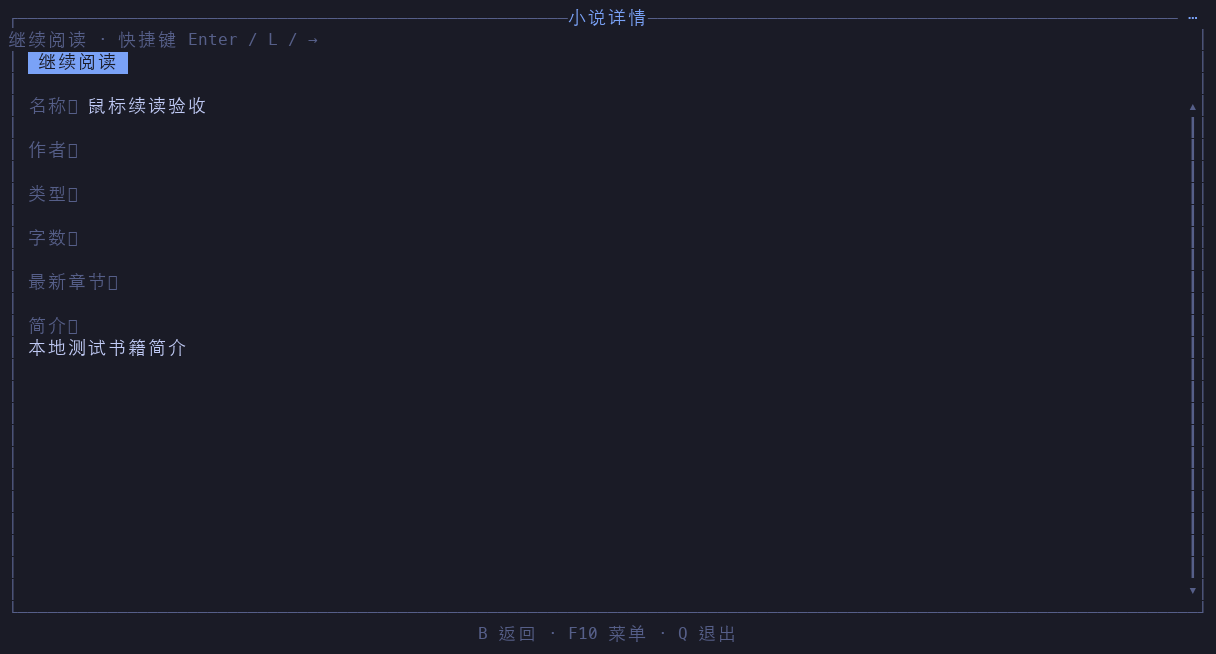
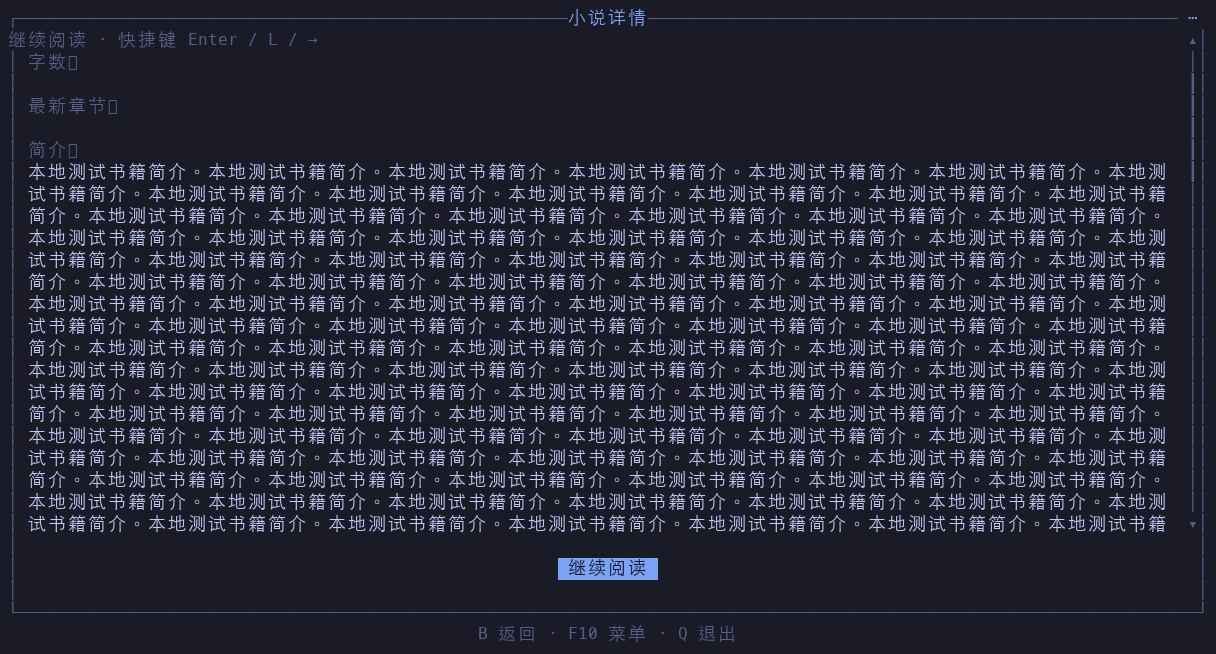
fix(ui): center the reading action at the bottom of book details

diff --git a/src/pages/network_novel/book_detail.rs b/src/pages/network_novel/book_detail.rs
@@ -1,10 +1,10 @@
 use crate::app::navigation::UseAppNavigate;
-use crate::components::{ActionBar, ActionButton};
+use crate::components::ActionButton;
 use anyhow::anyhow;
 use crossterm::event::{Event, KeyCode, KeyEventKind};
 use parse_book_source::{BookInfo, BookListItem, Engine};
 use ratatui::{
-    layout::{Constraint, Margin},
+    layout::{Constraint, Direction, Flex, Margin},
     text::{Line, Span},
     widgets::{Paragraph, Wrap},
 };
@@ -151,11 +151,6 @@ pub fn BookDetail(mut hooks: Hooks) -> impl Into<AnyElement<'static>> {
         top_title: Line::from("小说详情").centered().style(theme.title),
         border_style: theme.border,
     ){
-        View(height: Constraint::Length(3), margin: Margin::new(1,1)) {
-            ActionBar {
-                ActionButton(label: if cached { "继续阅读" } else { "开始阅读" }, shortcut: "Enter / L / →", disabled: loading.get() || book_source_parser.read().is_none(), on_press: move |_| open_book())
-            }
-        }
         {if loading.get(){
             element!(Loading(tip: "加载中...")).into_any()
         }else{
@@ -182,6 +177,14 @@ pub fn BookDetail(mut hooks: Hooks) -> impl Into<AnyElement<'static>> {
                 }
             }).into_any()
         }}
+        View(
+            height: Constraint::Length(3),
+            margin: Margin::new(1,1),
+            flex_direction: Direction::Horizontal,
+            justify_content: Flex::Center,
+        ) {
+            ActionButton(label: if cached { "继续阅读" } else { "开始阅读" }, shortcut: "Enter / L / →", disabled: loading.get() || book_source_parser.read().is_none(), on_press: move |_| open_book())
+        }
         WarningModal(
             // 用 Display(非 Debug)展示:登录态失效会清晰提示「登录态已失效,请重新登录」(9.3)。
             tip: error.read().as_ref().map(|e| e.to_string()).unwrap_or_default(),

diff --git a/tests/pty/book_detail.py b/tests/pty/book_detail.py
@@ -9,7 +9,7 @@ import sys
 import threading
 from http.server import BaseHTTPRequestHandler, ThreadingHTTPServer
 sys.dont_write_bytecode = True
-from settings_tabs import App, OUT, find, open_settings
+from settings_tabs import App, OUT, find, open_settings, resize
 
 ready = threading.Event()
 requests = []
@@ -19,7 +19,7 @@ class Pages(BaseHTTPRequestHandler):
         requests.append(self.path)
         if self.path == '/book':
             ready.wait(15)
-            text = '<h1>鼠标续读验收</h1><a id="toc" href="/toc">目录</a><p id="intro">本地测试书籍简介</p>'
+            text = '<h1>鼠标续读验收</h1><a id="toc" href="/toc">目录</a><p id="intro">' + ('本地测试书籍简介。' * 500) + '</p>'
         elif self.path == '/toc':
             text = '<a class="chapter" href="/first">第一章</a><a class="chapter" href="/second">第二章</a>'
         else:
@@ -68,7 +68,15 @@ try:
     a.pump(1)
     a.move(0, 0)
     x, y = find(a, '继续阅读')
-    assert y > 1, a.text()
+    assert y >= a.screen.lines - 5 and abs(x + 4 - a.screen.columns / 2) <= 1, a.text()
+    a.send('\x1b[<65;20;12M' * 5)
+    assert find(a, '继续阅读') == (x, y), a.text()
+    resize(a, 52, 18)
+    compact_x, compact_y = find(a, '继续阅读')
+    assert compact_y >= 13 and abs(compact_x + 4 - 26) <= 1, a.text()
+    a.save('network-detail-compact')
+    resize(a, 120, 29)
+    x, y = find(a, '继续阅读')
     before = a.screen.buffer[y][x].reverse
     a.move(x, y)
     assert before != a.screen.buffer[y][x].reverse, a.text()

diff --git a/dev-notes/detail-entry-acceptance.md b/dev-notes/detail-entry-acceptance.md
@@ -3,8 +3,8 @@
 日期：2026-11-15。
 
 - 设置正文去掉“设置”标题及其占位空行，直接显示 Tabs，header 开关两种状态均验证。
-- 网络详情的主要阅读动作改为页内常驻按钮；缓存书籍显示“继续阅读”，新书显示“开始阅读”。加载中禁用；已有 Enter、L、→ 仍调用相同的打开逻辑。按钮留出间距，header 隐藏时 hover 提示不会覆盖入口。
-- 使用 loopback HTTP 书源、隔离 HOME、预置第二章阅读记录，鼠标从历史进入详情并继续阅读。验证加载时点击不导航，加载后 hover 反馈、单击进入并请求 `/second`，未请求 `/first`；返回后 Enter 仍可续读。
+- 网络详情的主要阅读动作改为页内常驻按钮；缓存书籍显示“继续阅读”，新书显示“开始阅读”。加载中禁用；已有 Enter、L、→ 仍调用相同的打开逻辑。按钮固定在详情页底部居中，长简介独立滚动；header 隐藏时 hover 提示不会覆盖入口。
+- 使用 loopback HTTP 书源、隔离 HOME、预置第二章阅读记录，鼠标从历史进入详情并继续阅读。验证加载时点击不导航，加载后 hover 反馈、单击进入并请求 `/second`，未请求 `/first`；返回后 Enter 仍可续读。长简介滚动及 52×18 窗口下，按钮保持底部居中。
 - 全功能 workspace 测试、Clippy、格式、严格 rustdoc，无默认/仅 TTS 测试及主程序构建通过。原有全局设置 PTY 回归保留。
 
 ```sh
@@ -16,5 +16,7 @@ uv run tests/pty/settings_tabs.py
 图像来自真实 PTY 的字符/颜色网格导出。
 
 ![网络详情常驻阅读按钮与 hover](images/detail-entry/network-detail.png)
+
+![52×18 窗口底部阅读按钮](images/detail-entry/network-detail-compact.png)
 
 ![设置页直接显示 Tabs](images/detail-entry/settings.png)

diff --git a/dev-notes/knowledge/tui-ratatui-kit.md b/dev-notes/knowledge/tui-ratatui-kit.md
@@ -778,6 +778,6 @@ TTSManager 的听书、声音、高级三个页复用父页当帧输入层。声
 
 `ActionBar(menu: "分组")` 只向顶栏注册动作，不绘制页内按钮。书籍详情的开始/继续阅读属于主要动作，使用不带 menu 的页内 ActionBar，加载完成前禁用，鼠标和键盘共用同一个打开回调。缓存详情保留章节位置，以“继续阅读”标识。
 
-header 隐藏时全局 ActionHint 仍在第 1 行显示临时提示，页内按钮应留出顶端间距，避免 hover 提示盖住自己的点击入口。全局设置正文直接从 Tabs 开始，不再重复顶栏已有的设置标题。
+详情阅读按钮放在 ScrollView 外的底部固定区域并水平居中，长简介滚动时保持可点击。header 隐藏时全局 ActionHint 仍在第 1 行显示临时提示，底部按钮不会被提示覆盖。全局设置正文直接从 Tabs 开始，不再重复顶栏已有的设置标题。
 
 **相关文件**：`src/pages/network_novel/book_detail.rs`、`src/pages/settings/mod.rs`、`tests/pty/book_detail.py`。详情回归使用隔离 HOME 和 loopback 书源，验证加载门控、hover、鼠标续读和 Enter；不依赖真实书站。
